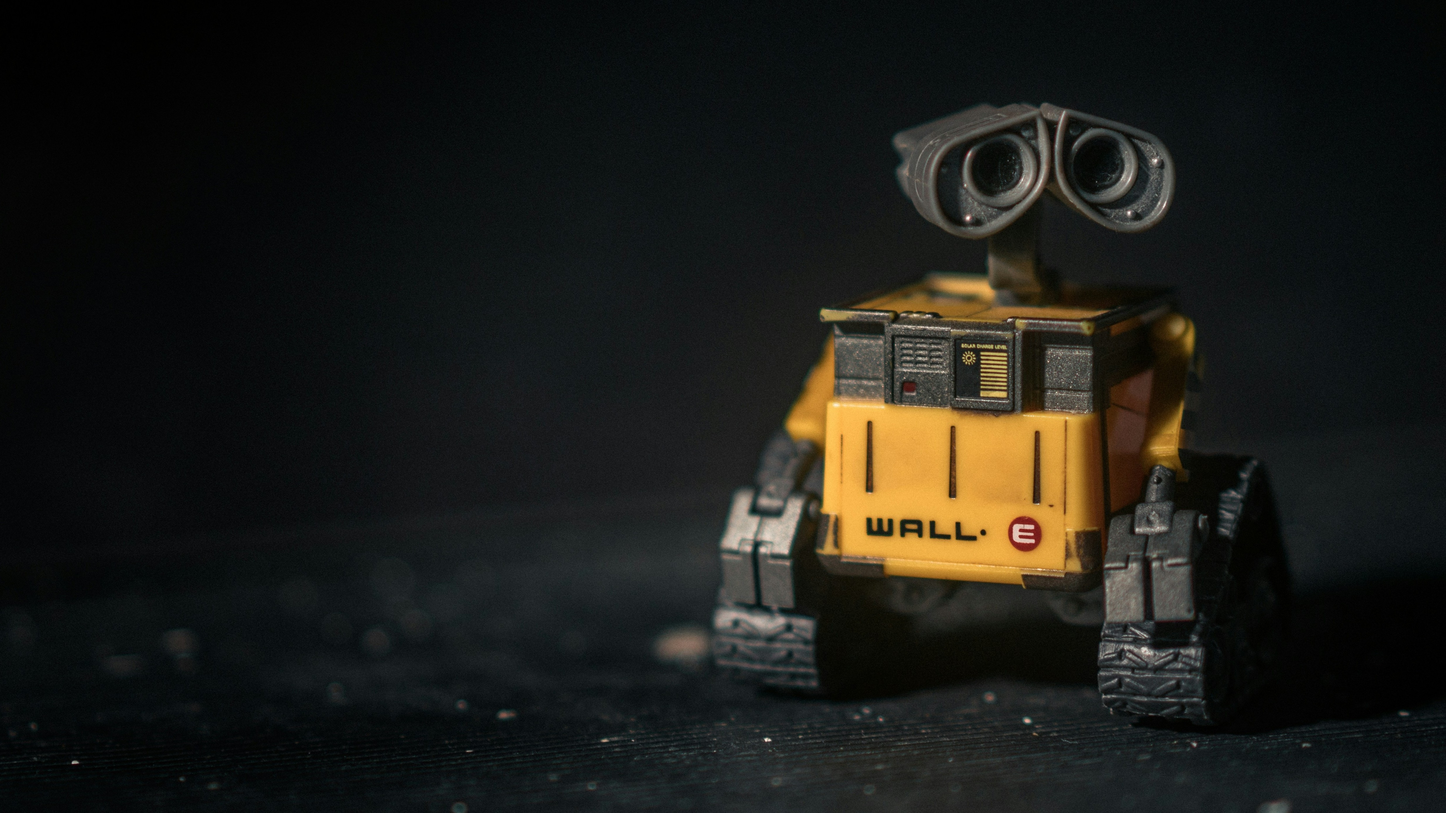
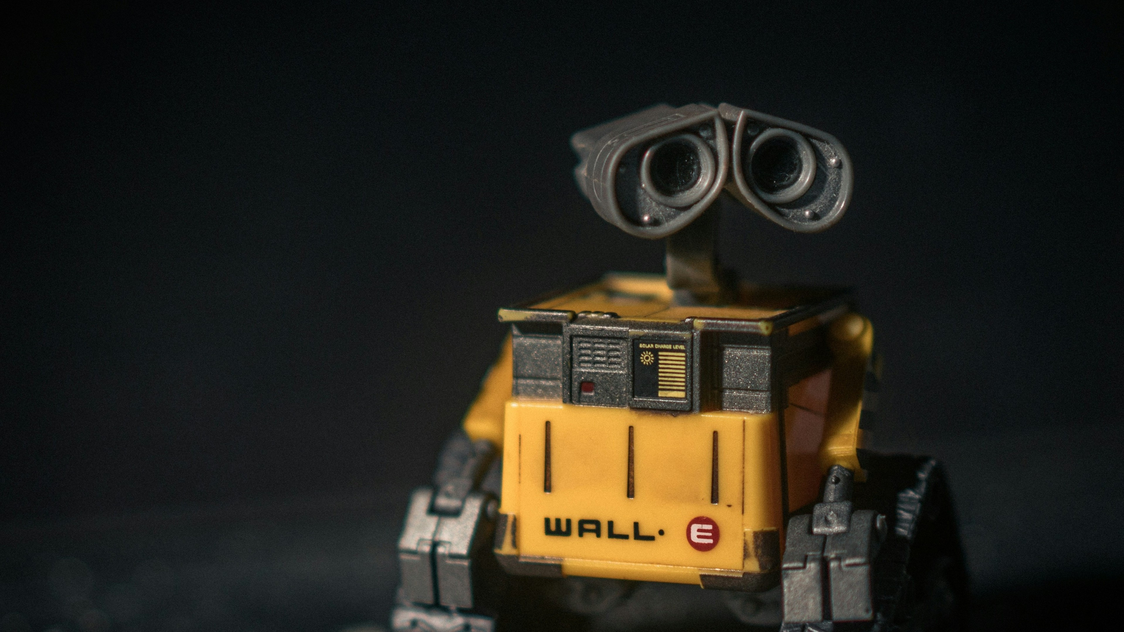
update homepage

Changed region(s): [[0.031, 0.1242, 1.0, 1.0]]

diff --git a/homepage/index.html b/homepage/index.html
@@ -87,7 +87,7 @@
             </div>
         </nav>
     </header>
-    
+
     <main class="container-fluid px-0">
 
         <!-- Carousel -->
@@ -105,7 +105,7 @@
                 <!-- Carousel Item 1 -->
                 <div class="carousel-item active" data-bs-interval="5000">
                     <!-- Item 1: image -->
-                    <img src="./img/carousel_toronto_shared_bike.jpg" class="d-block w-100"
+                    <img src="./img/carousel_toronto_shared_bike.jpg" class="carousel-image d-block w-100 h-100"
                         alt="carousel_toronto_shared_bike">
                     <!-- Item 1: Desciption -->
                     <div class="container">
@@ -126,7 +126,7 @@
                 <!-- Carousel Item 2 -->
                 <div class="carousel-item" data-bs-interval="5000">
                     <!-- Item 2: image -->
-                    <img src="./img/carousel_ai.jpg" class="d-block w-100" alt="carousel_ai">
+                    <img src="./img/carousel_ai.jpg" class="carousel-image d-block w-100 h-100" alt="carousel_ai">
                     <!-- Item 2: Desciption -->
                     <div class="container">
                         <div class="carousel-caption text-start">
@@ -173,7 +173,7 @@
     <!-- footer -->
     <footer class="container mt-auto">
         <p class="float-end"><a href="#">Back to top</a></p>
-        <p>&copy; 2025 Arguswatcher &middot; <a href="#">Privacy</a> &middot; <a href="#">Terms</a></p>
+        <p>&copy; 2025 <a href="https://www.arguswatcher.net">Arguswatcher</a> </p>
     </footer>
 
     <!-- js -->

diff --git a/homepage/css/carousel.css b/homepage/css/carousel.css
@@ -13,7 +13,12 @@
 
 /* Declare heights because of positioning of img element */
 .carousel-item {
-  height: 35rem;
+  height: 30rem;
+}
+
+/*  The image keeps its aspect ratio and fills the given dimension. The image will be clipped to fit */
+.carousel-image {
+  object-fit: cover;
 }
 
 /* RESPONSIVE CSS
@@ -45,4 +50,3 @@
   font-weight: 400;
   font-style: normal;
 }
-
